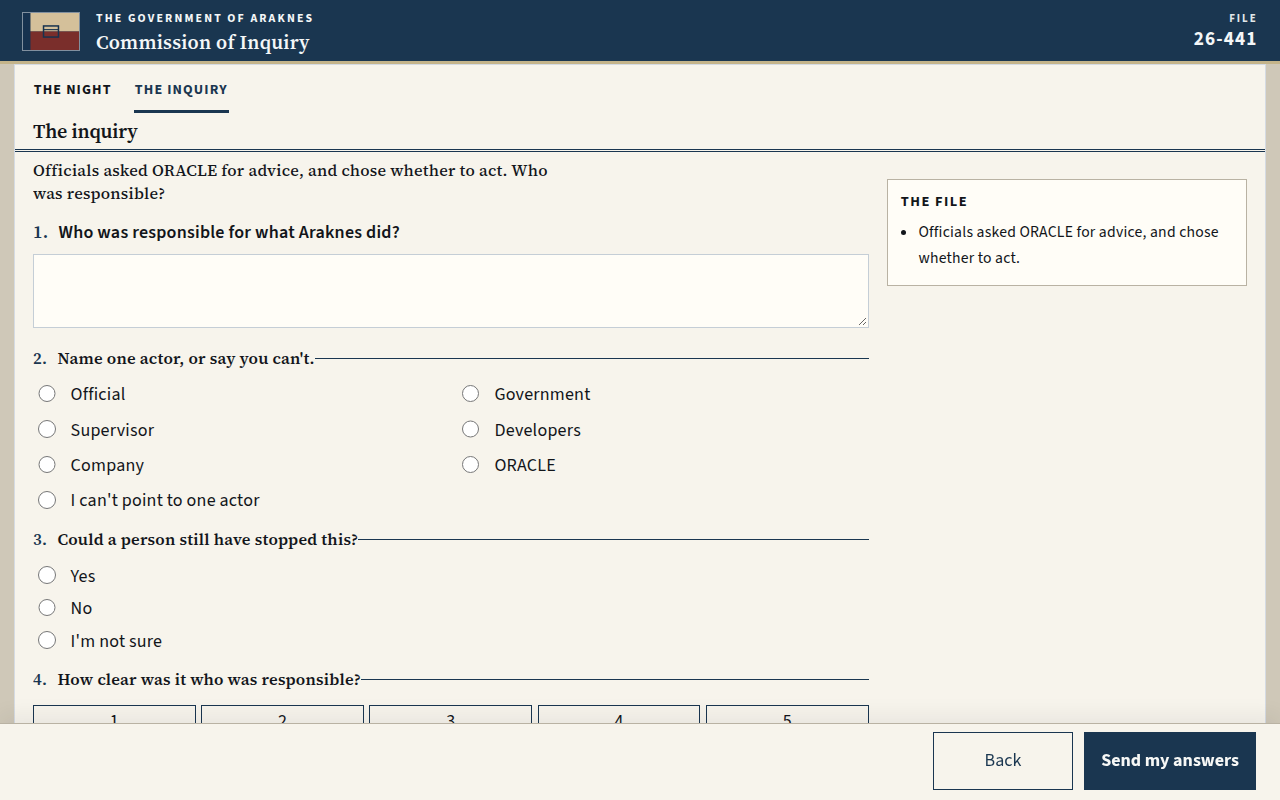
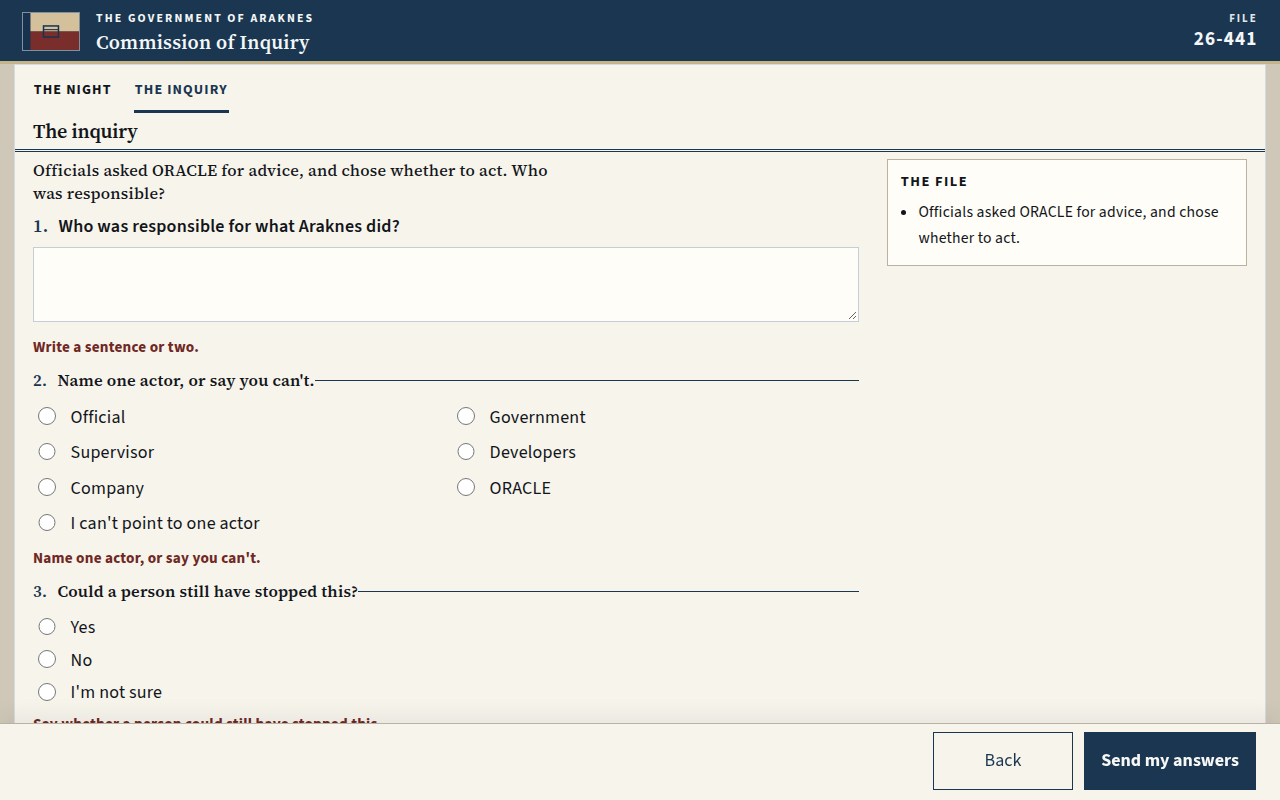
Let the inquiry page scroll past the footer.
Drop overflow hidden on the inquiry containers and pad the page by
the footer height so Q5 and Send my answers stay reachable.

diff --git a/app/styles.css b/app/styles.css
@@ -32,9 +32,13 @@ body {
 .story-bar,
 .banner { display: none; }
 
-body[data-step="night"],
-body[data-step="inquiry"] {
+body[data-step="night"] {
   overflow: hidden;
+}
+
+body[data-step="inquiry"] {
+  overflow: auto;
+  padding-bottom: var(--step);
 }
 
 body[data-step="night"] .frame {
@@ -45,8 +49,7 @@ body[data-step="night"] .frame {
   padding-bottom: 0;
 }
 
-body[data-step="night"] .paper,
-body[data-step="inquiry"] .paper {
+body[data-step="night"] .paper {
   display: flex;
   flex-direction: column;
   flex: 1;
@@ -54,8 +57,7 @@ body[data-step="inquiry"] .paper {
   box-shadow: none;
 }
 
-body[data-step="night"] .sheet,
-body[data-step="inquiry"] .sheet {
+body[data-step="night"] .sheet {
   display: flex;
   flex-direction: column;
   flex: 1;
@@ -1555,11 +1557,8 @@ body.register { background: #d6d2c4; }
 }
 
 body[data-step="inquiry"] .frame {
-  display: flex;
-  flex-direction: column;
-  min-height: calc(100vh - var(--step));
+  min-height: 0;
   padding-bottom: 0;
-  overflow: hidden;
 }
 
 body[data-step="inquiry"] .banner-row {
@@ -1583,38 +1582,7 @@ body[data-step="inquiry"] .mast .doc {
 }
 
 body[data-step="inquiry"] #app {
-  display: flex;
-  flex-direction: column;
-  flex: 1;
-  min-height: 0;
-  overflow: hidden;
   padding: 0.45rem 1.15rem 0.3rem;
-}
-
-body[data-step="inquiry"] #app > section {
-  display: flex;
-  flex-direction: column;
-  flex: 1;
-  min-height: 0;
-}
-
-body[data-step="inquiry"] .spread {
-  flex: 1;
-  gap: 0.85rem 1.15rem;
-  min-height: 0;
-  overflow: hidden;
-}
-
-body[data-step="inquiry"] .spread-main,
-body[data-step="inquiry"] .inquiry-form {
-  min-height: 0;
-}
-
-body[data-step="inquiry"] .inquiry-form {
-  flex: 1;
-  max-height: none;
-  overflow: auto;
-  padding-bottom: 0.25rem;
 }
 
 body[data-step="inquiry"] .prose p {
